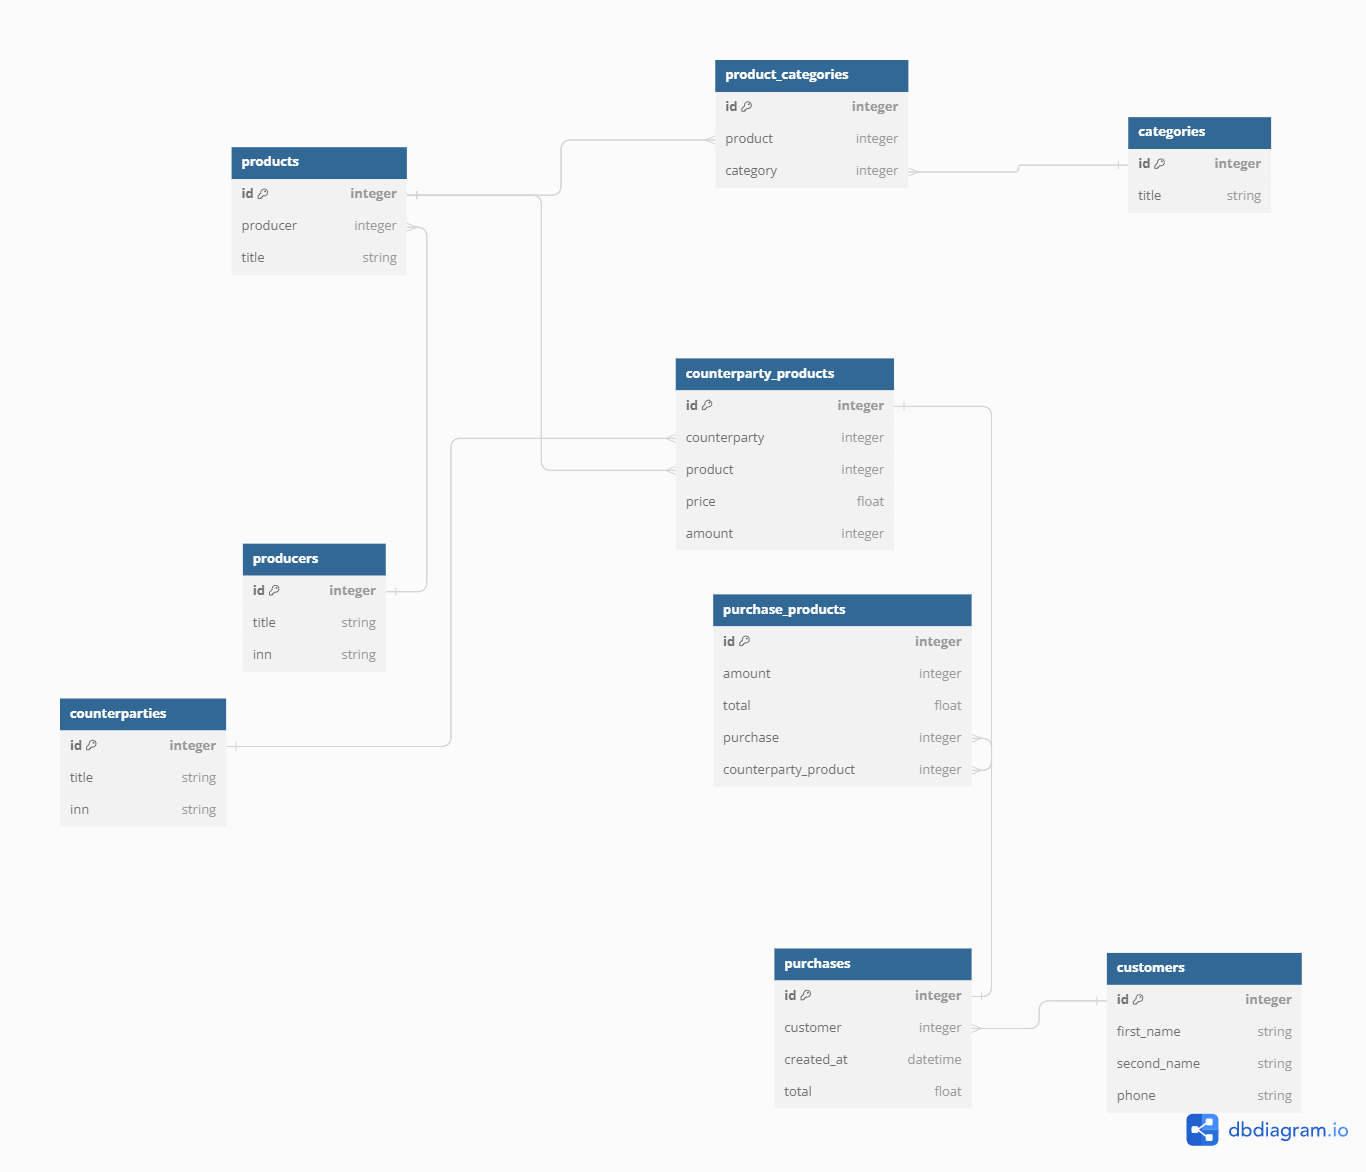
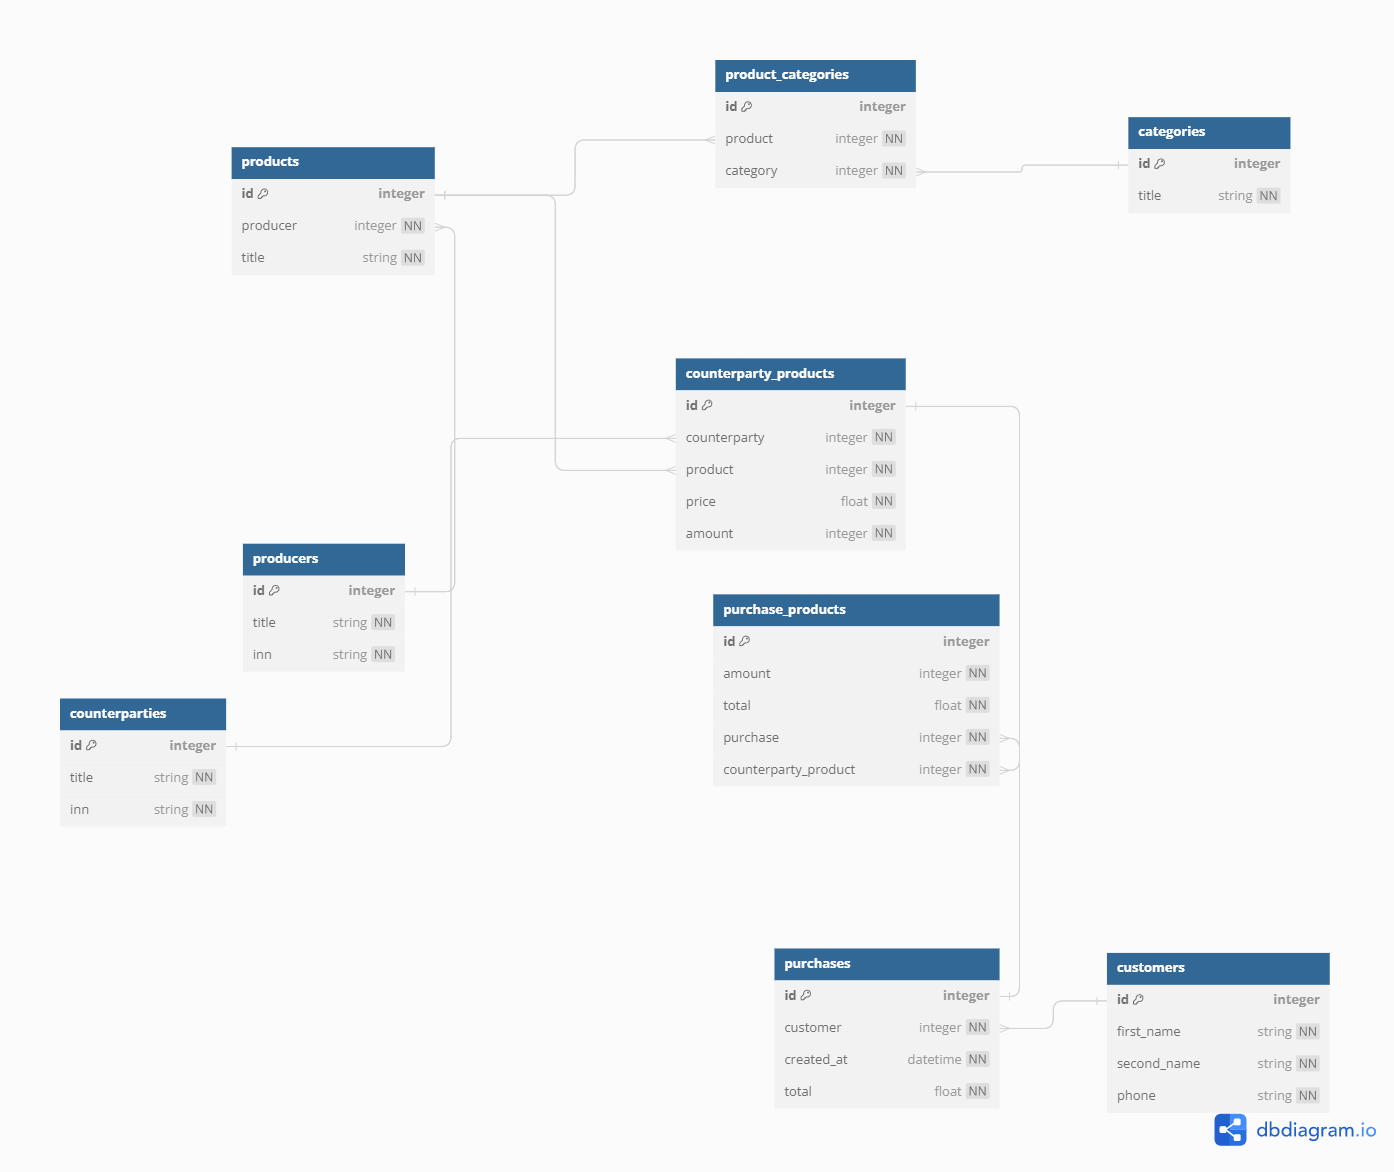
Добавлены constraints

diff --git a/README.MD b/README.MD
@@ -64,66 +64,66 @@
     - **products**
         - поля:
           - id - высокая кардинальность
-          - producer - средняя кардинальность
-          - title - высокая кардинальность 
+          - producer - средняя кардинальность [not null, REFERENCES producers]
+          - title - высокая кардинальность  [not null]
         - индексы:
           - (title) - простой индекс для ускоренного поиска по названию продукта 
     - **product_categories**
         - поля:
           - id - высокая кардинальность
-          - product - средняя кардинальность
-          - category - средняя кардинальность
+          - product - средняя кардинальность [not null, REFERENCES products]
+          - category - средняя кардинальность [not null, REFERENCES categories]
     - **categories**
         - поля:
           - id - высокая кардинальность
-          - title - высокая кардинальность
+          - title - высокая кардинальность [not null]
         - индексы:
           - (title) - простой индекс для ускоренного поиска по названию категории
     - **producers**
         - поля:
           - id - высокая кардинальность
-          - title - высокая кардинальность
-          - inn - высокая кардинальность
+          - title - высокая кардинальность [not null]
+          - inn - высокая кардинальность [not null, length(inn) == 10]
       - индексы:
           - (title, inn) - составной индекс для ускоренного поиска по названию производителя и ИНН
     - **counterparty_products**
         - поля:
           - id - высокая кардинальность
-          - counterparty - средняя кардинальность
-          - product - средняя кардинальность
-          - price - высокая кардинальность
-          - amount - средняя кардинальность
+          - counterparty - средняя кардинальность [not null, REFERENCES counterparties]
+          - product - средняя кардинальность [not null, REFERENCES products]
+          - price - высокая кардинальность [not null]
+          - amount - средняя кардинальность [not null]
       - индексы:
           - (counterparty, product, price) - составной индекс для ускоренного поиска цен на продукты у поставщиков
 
     - **counterparties**
         - поля:
           - id - высокая кардинальность
-          - title - высокая кардинальность
-          - inn - высокая кардинальность
+          - title - высокая кардинальность [not null]
+          - inn - высокая кардинальность [not null, length(inn) == 10]
       - индексы:
           - (title, inn) - составной индекс для ускоренного поиска по названию поставщика и ИНН
     - **purchase_products**
         - поля:
           - id - высокая кардинальность
-          - amount - средняя кардинальность
-          - total - высокая кардинальность
-          - purchase - средняя кардинальность
-          - counterparty_product - средняя кардинальность
+          - amount - средняя кардинальность [not null]
+          - total - высокая кардинальность [not null]
+          - purchase - средняя кардинальность [not null, REFERENCES purchases]
+          - counterparty_product - средняя кардинальность [not null, REFERENCES counterparty_products]
     - **purchases**
         - поля:
           - id - высокая кардинальность
-          - customer - средняя кардинальность
-          - created_at - средняя кардинальность
-          - total - высокая кардинальность
+          - customer - средняя кардинальность  [not null, REFERENCES customers]
+          - created_at - средняя кардинальность [not null]
+          - total - высокая кардинальность [not null]
       - индексы:
           - (customer, total) - составной индекс для ускоренной сортировки суммарного total за все заказы у каждого покупателя
           - (customer, created_at) - составной индекс для ускоренного поиска покупок конкретного пользователя в период
 
     - **customers**
         - поля:
-          - id - высокая кардинальность
-          - first_name - средняя кардинальность
-          - second_name - средняя кардинальность
-          - phone - высокая кардинальность
+          - id - высокая кардинальность 
+          - first_name - средняя кардинальность [not null]
+          - second_name - средняя кардинальность [not null]
+          - phone - высокая кардинальность [not null, regex ^((8|\+7)[\- ]?)?(\(?\d{3}\)?[\- ]?)?[\d\- ]{7,10}$]
     
